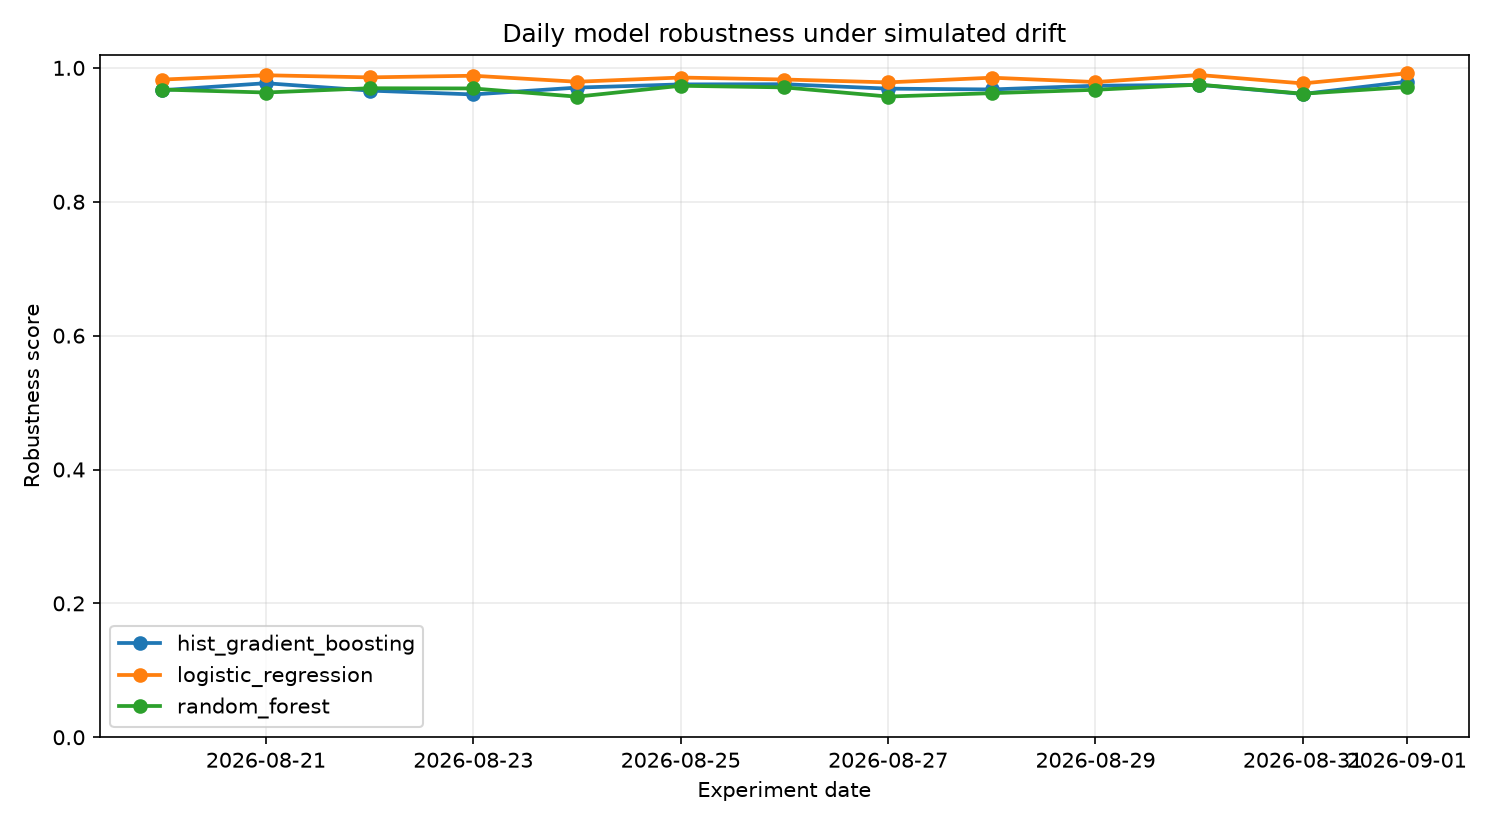
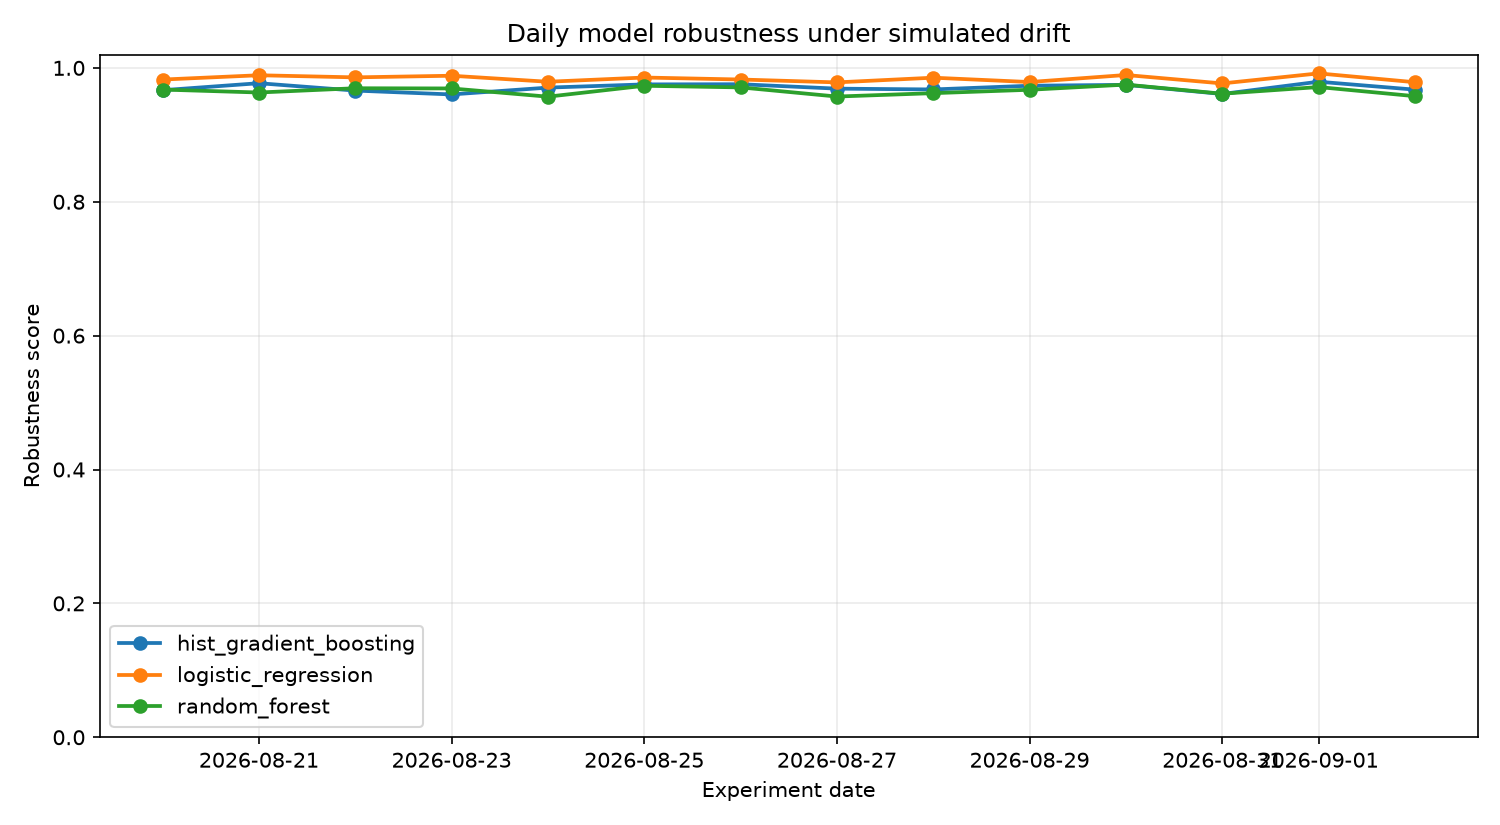
chore(observatory): daily drift benchmark 2026-09-02

diff --git a/reports/latest.md b/reports/latest.md
@@ -1,37 +1,37 @@
 # Latest DriftWatch Report
 
-**Experiment date:** 2026-09-01
+**Experiment date:** 2026-09-02
 
 ## Drift scenario
 
-- Drift strength: `0.464`
-- Scale factor: `0.954`
-- Noise ratio: `0.081`
-- Mask ratio: `0.021`
-- Affected features: mean smoothness, mean symmetry, smoothness error, compactness error, worst compactness, worst concave points, worst symmetry
+- Drift strength: `0.393`
+- Scale factor: `1.039`
+- Noise ratio: `0.072`
+- Mask ratio: `0.019`
+- Affected features: mean perimeter, mean concavity, mean symmetry, mean fractal dimension, radius error, area error, fractal dimension error
 
 ## Model ranking
 
 | Rank | Model | Robustness | ROC-AUC | F1 | Balanced Acc. | Log Loss | Brier |
 |---:|---|---:|---:|---:|---:|---:|---:|
-| 1 | `logistic_regression` | 0.9918 | 0.9980 | 0.9907 | 0.9844 | 0.0613 | 0.0149 |
-| 2 | `hist_gradient_boosting` | 0.9793 | 0.9920 | 0.9772 | 0.9609 | 0.1036 | 0.0278 |
-| 3 | `random_forest` | 0.9714 | 0.9930 | 0.9633 | 0.9438 | 0.1305 | 0.0359 |
+| 1 | `logistic_regression` | 0.9786 | 0.9972 | 0.9665 | 0.9642 | 0.1050 | 0.0308 |
+| 2 | `hist_gradient_boosting` | 0.9675 | 0.9893 | 0.9581 | 0.9422 | 0.1376 | 0.0413 |
+| 3 | `random_forest` | 0.9578 | 0.9898 | 0.9384 | 0.9236 | 0.1504 | 0.0439 |
 
 ## Highest feature drift (PSI)
 
 | Feature | PSI |
 |---|---:|
-| worst symmetry | 0.3425 |
-| worst concave points | 0.2906 |
-| compactness error | 0.2879 |
-| worst compactness | 0.2196 |
-| texture error | 0.1848 |
-| fractal dimension error | 0.1570 |
-| mean symmetry | 0.1469 |
-| smoothness error | 0.1416 |
+| area error | 1.7762 |
+| mean concavity | 1.4895 |
+| fractal dimension error | 0.8403 |
+| radius error | 0.3260 |
+| mean fractal dimension | 0.2919 |
+| mean symmetry | 0.1942 |
+| mean perimeter | 0.1743 |
+| texture error | 0.1349 |
 
-**Mean PSI:** `0.1130`  
-**Max PSI:** `0.3425`
+**Mean PSI:** `0.2327`  
+**Max PSI:** `1.7762`
 
 _Generated automatically by the DriftWatch daily observatory pipeline._
